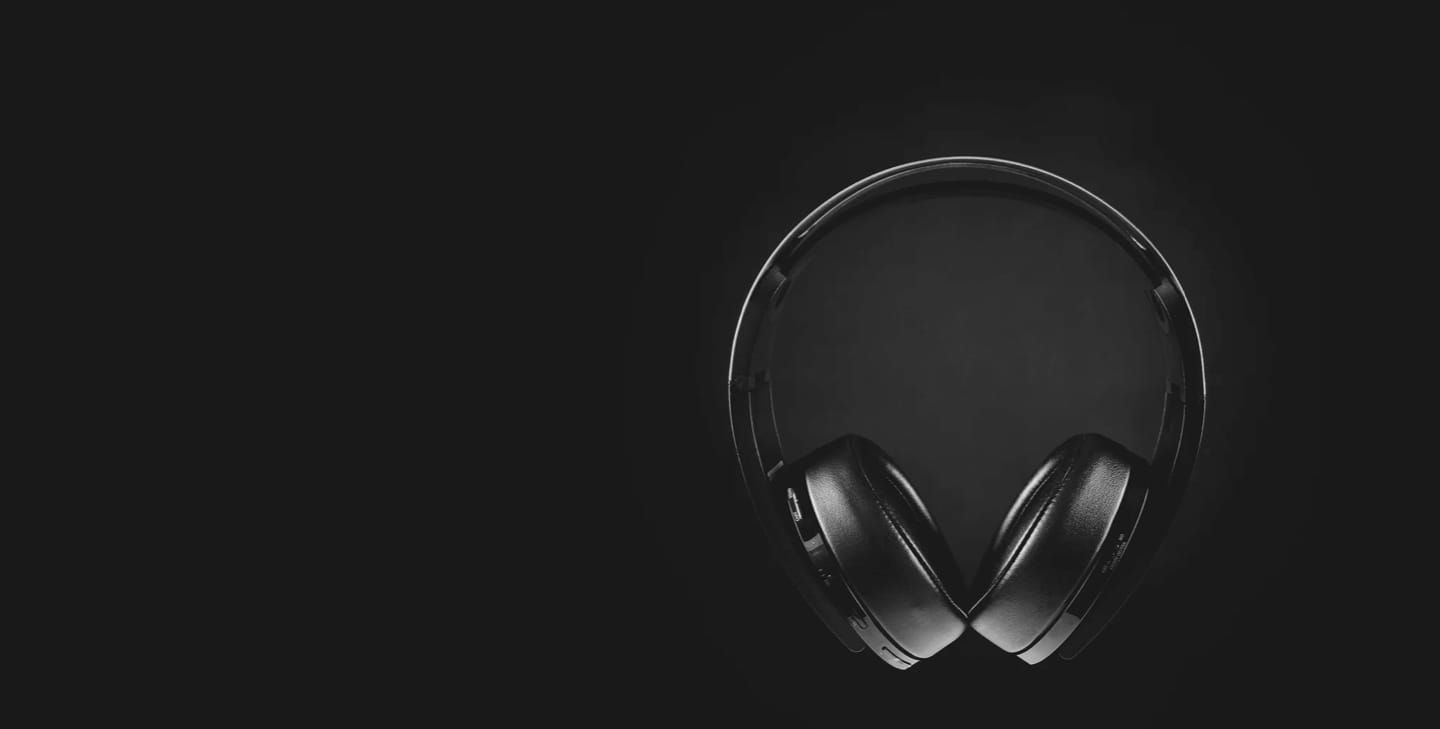
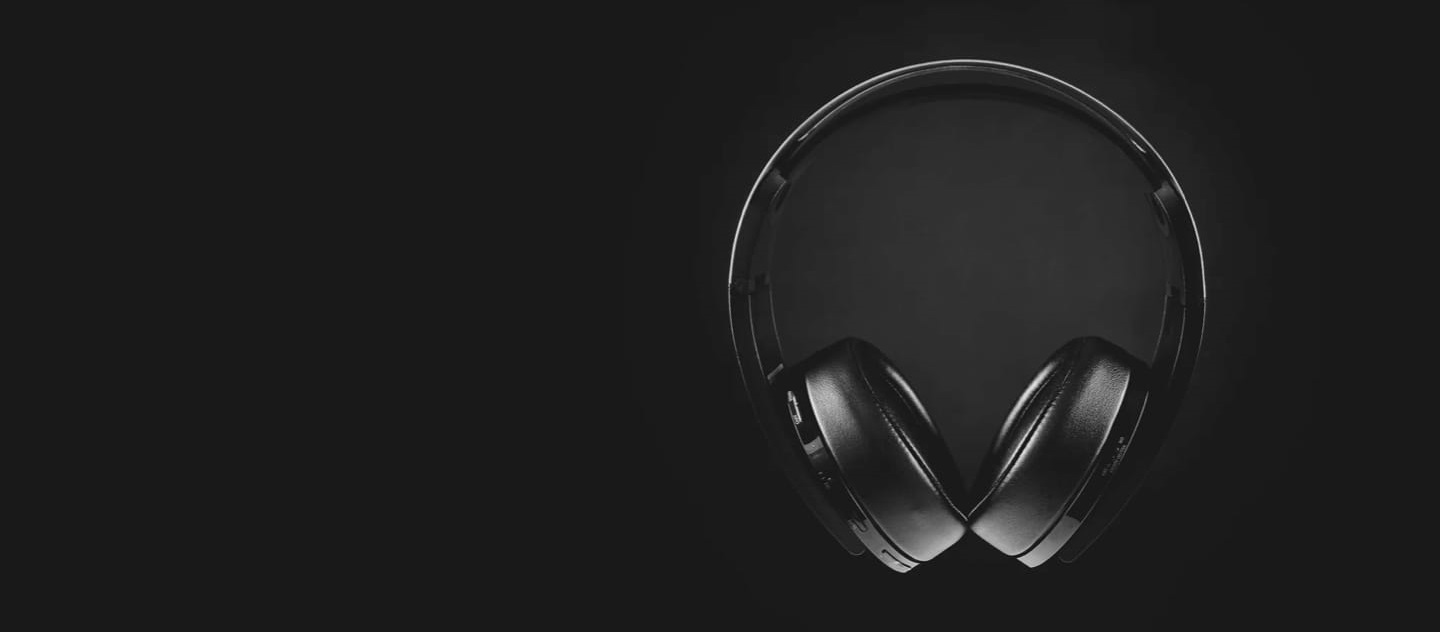
finish design of hero on all devices

diff --git a/src/app/page.tsx b/src/app/page.tsx
@@ -11,14 +11,16 @@ export default function Home() {
         <section className={`${styles["hero"]}`}>
             <div className={`${styles["hero__left"]}`}>
                 <h2 className={`${styles["hero__new"]}`}>NEW PRODUCT</h2>
-                <h1 className={`${styles["hero__heading"]}`}>XX99 MARK II HEADPHONES</h1>
-                <p className={`${styles["hero__description"]}`}>Experience natural, lifelike audio and exceptional build quality made for the passionate music enthusiast.</p>
-                <Link href={`/`} className={`btn btn--peach ${styles["hero__link"]}`}>SEE PRODUCT</Link>
+                <h1 className={`${styles["hero__heading"]}`}><span className={`${styles["hero__heading--double"]}`}>XX99 MARK II HEADPHONES</span></h1>
+                <p className={`${styles["hero__description"]}`}><span className={`${styles["hero__description--double"]}`}>Experience natural, lifelike audio and exceptional build quality made for the passionate music enthusiast.</span></p>
+                <div className={`${styles["hero__link"]}`}>
+                    <Link href={`/`} className={`btn btn--peach`}>SEE PRODUCT</Link>
+                </div>
             </div>
             <picture className={`${styles["hero__right"]}`}>
                 <source media="(max-width: 767px)" srcSet={mobile.src}/>
-                <source media="(min-width: 768px) and (max-width: 1233px)" srcSet={tablet.src}/>
-                <source media="(min-width: 1234px)" srcSet={desktop.src}/>
+                <source media="(min-width: 768px) and (max-width: 1439px)" srcSet={tablet.src}/>
+                <source media="(min-width: 1440px)" srcSet={desktop.src}/>
                 <img src={mobile.src} alt="xx99 mark 2 headphone" />
             </picture>
         </section>

diff --git a/src/app/page.module.scss b/src/app/page.module.scss
@@ -27,6 +27,11 @@
             width: 48rem;
             height: 40rem;
         }
+
+        @include desktop{
+            width: 90rem;
+            height: 39.5rem;
+        }
     }
 
     &__new{
@@ -38,6 +43,11 @@
 
         @include tablet{
             margin-top: 7.875rem;
+        }
+
+        @include desktop{
+            width: 69.375rem;
+            margin: 8rem auto 0;
         }
     }
 
@@ -56,6 +66,20 @@
             margin-top: 1.5rem;
             width: 25rem;
         }
+
+        @include desktop{
+            width: 69.375rem;
+            margin: 1.5rem auto 0;
+        }
+
+        &--double{
+
+            @include desktop{
+                display: block;
+                width: 25rem;
+                text-align: left;
+            }
+        }
     }
 
     &__description{
@@ -65,9 +89,28 @@
         text-align: center;
         color: $white-00;
         opacity: 0.75;
+
+        @include desktop{
+            width: 69.375rem;
+            margin: 1.5rem auto 0;
+        }
+
+        &--double{
+
+            @include desktop{
+                display: block;
+                width: 21.875rem;
+                text-align: left;
+            }
+        }
     }
 
     &__link{
+        width: fit-content;
         margin: 2.75rem auto 0;
+
+        @include desktop{
+            width: 69.375rem;
+        }
     }
 }

diff --git a/src/ui/nav-toggle/nav-toggle.tsx b/src/ui/nav-toggle/nav-toggle.tsx
@@ -47,7 +47,7 @@ export default function NavToggle() {
     return (
         <nav className={`${styles["nav"]}`} >
             <button className={`${styles["nav__toggle"]}`} onClick={toggleHandler}>
-                <Image src={hamburger} alt="hamburger icon" height={15} width={16} />
+                <Image className={`${styles["nav__hamburger"]}`} src={hamburger} alt="hamburger icon" height={15} width={16} />
             </button>
             <div className={`${styles["nav__overlay"]} ${isOpen ? styles["nav__overlay--show"] : ""}`}>
                 <div className={`${styles["nav__content"]}`}>

diff --git a/src/ui/nav-toggle/nav-toggle.module.scss b/src/ui/nav-toggle/nav-toggle.module.scss
@@ -38,4 +38,8 @@
             display: none;
         }
     }
+
+    &__hamburger{
+        background-color: $black-03;
+    }
 }

diff --git a/src/app/globals.scss b/src/app/globals.scss
@@ -43,6 +43,7 @@ picture{
 
 button{
     border: none;
+    background-color: inherit;
 }
 
 /* Normalization — END */
